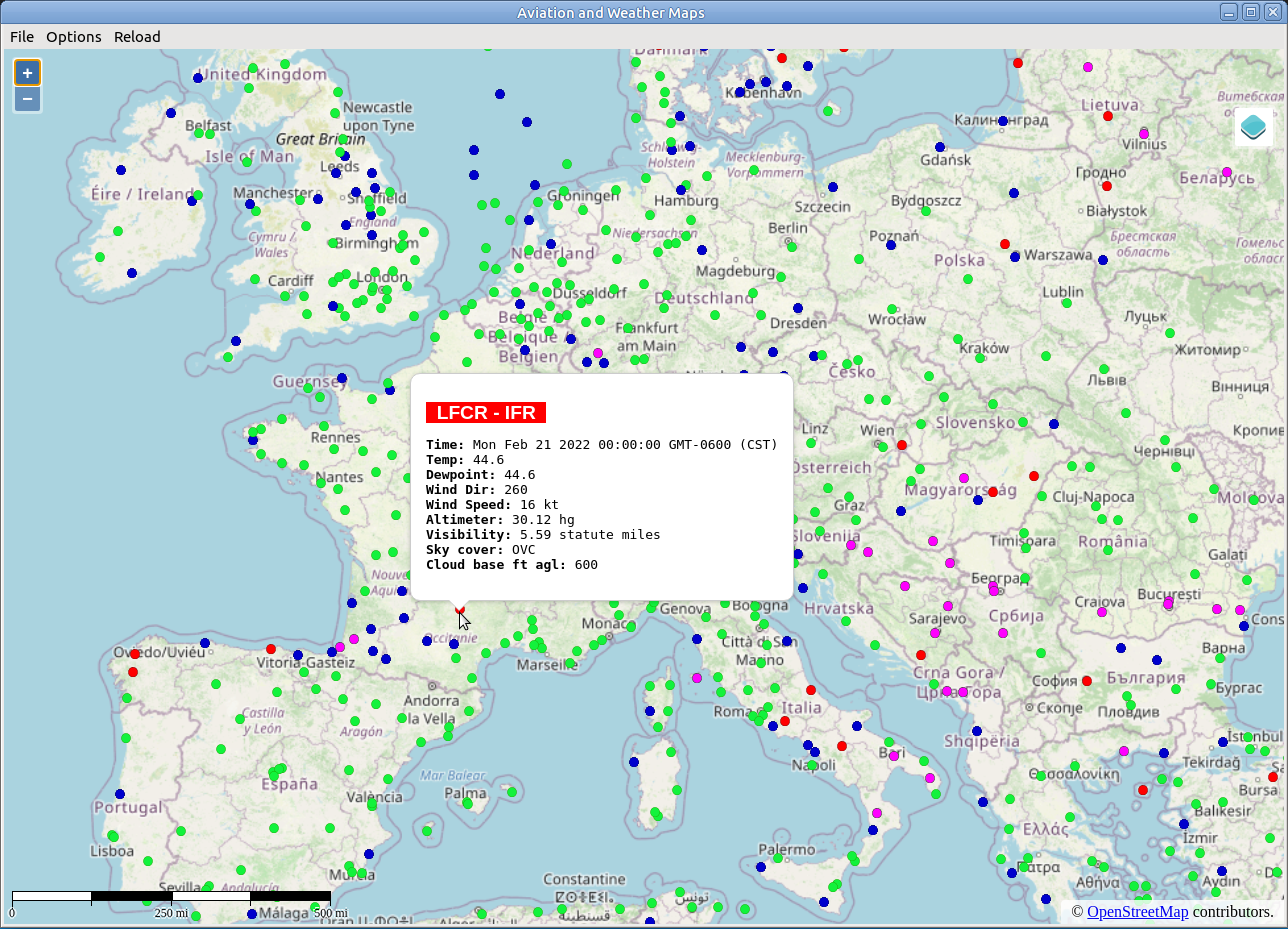
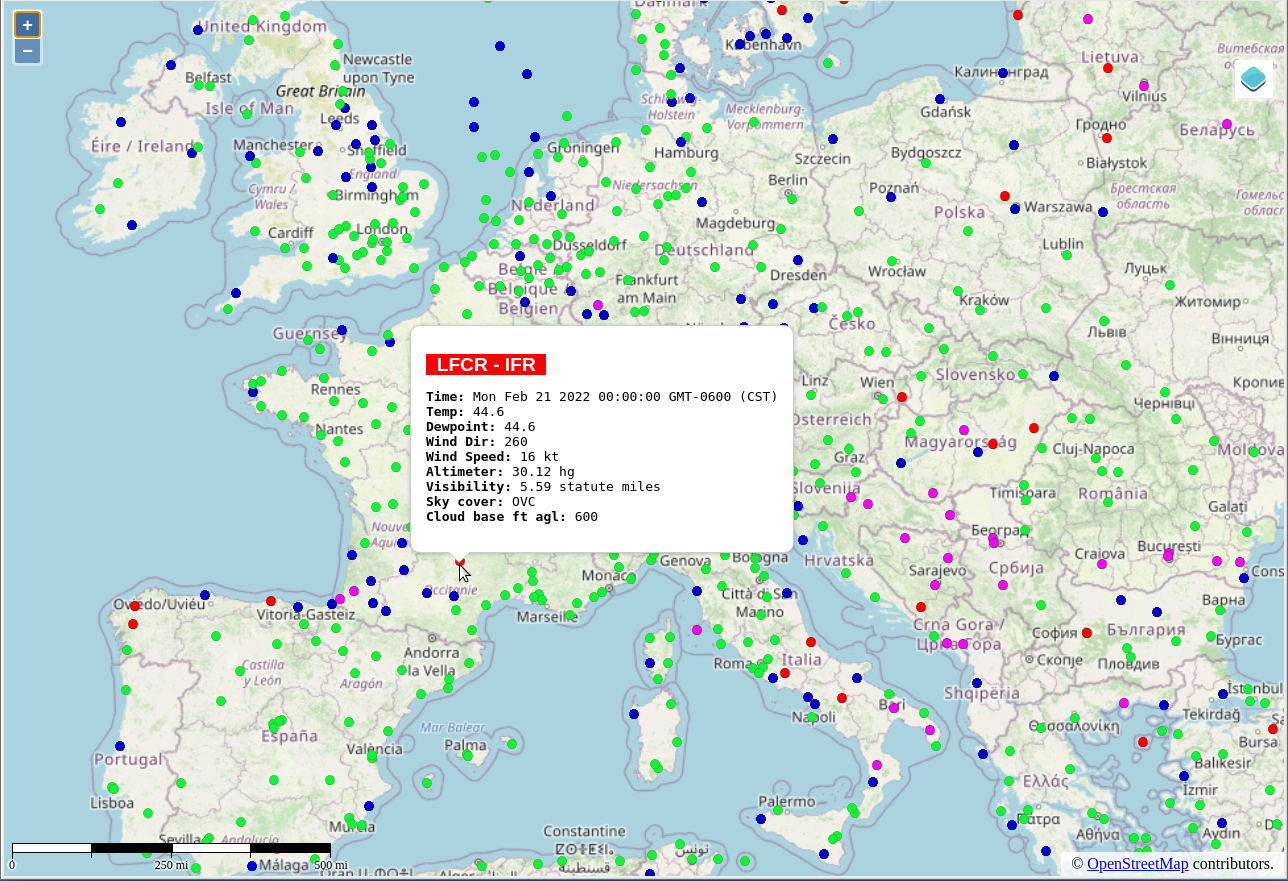
Added helipad vector layer

diff --git a/public/js/renderer.js b/public/js/renderer.js
@@ -67,12 +67,13 @@ let tiledebugLayer;
 let websock;
 let wsOpen = false;
 let MessageTypes = {};
-
+let DistanceUnits = {};
+let distanceunit = "";
 /**
  * Animation variables 
  */
 let animationId = null;
-let startDate = threeHoursAgo();
+let startDate = getTimeThreeHoursAgo();
 let frameRate = 1.0; // frames per second
 const animatecontrol = document.getElementById('wxbuttons');
 
@@ -222,6 +223,8 @@ $.get({
         try {
             settings = JSON.parse(data);
             MessageTypes = settings.messagetypes;
+            DistanceUnits = settings.distanceunits;
+            distanceunit = settings.distanceunit;
             currentZoom = settings.startupzoom;
         }
         catch(err) {
@@ -450,6 +453,21 @@ map.on('pointermove', (evt) => {
     map.forEachFeatureAtPixel(evt.pixel, (feature) => {
         if (feature) {
             hasfeature = true;
+        }
+    });
+    if (!hasfeature) {
+        popupcloser.onclick();
+    }
+});
+
+
+map.on('singleclick', (evt) => {
+    let hasfeature = false;
+    currentZoom = map.getView().getZoom();
+    resizeDots();
+    map.forEachFeatureAtPixel(evt.pixel, (feature) => {
+        if (feature) {
+            hasfeature = true;
             let datatype = feature.get("datatype");
             if (datatype === "metar") {
                 createMetarPopup(feature);
@@ -464,9 +482,6 @@ map.on('pointermove', (evt) => {
             popupoverlay.setPosition(coordinate);
         }
     });
-    if (!hasfeature) {
-        popupcloser.onclick();
-    }
 });
 
 function createMetarPopup(feature) {
@@ -476,7 +491,10 @@ function createMetarPopup(feature) {
     if (cat == undefined || cat == "undefined"){
         cat = "VFR";
     }
-    let time = getLocalTimeZone(thismetar.observation_time);
+    let time = thismetar.observation_time;
+    if (settings.uselocaltimeformetars) {
+        time = getLocalTimeZone(time);
+    }
     let temp = convertCtoF(thismetar.temp_c);
     let dewp = convertCtoF(thismetar.dewpoint_c);
     let windir = thismetar.wind_dir_degrees;
@@ -484,6 +502,15 @@ function createMetarPopup(feature) {
     let wingst = thismetar.wind_gust_kt + ""; 
     let altim = getAltimeterSetting(thismetar.altim_in_hg);
     let vis = thismetar.visibility_statute_mi;
+    let visunit = settings.visibilityunit;
+    switch (visunit) {
+        case "km":
+            vis = convertMilesToKilometers(vis);
+            break;
+        case "nm":
+            vis = convertMilesToNauticalMiles(vis);
+            break;
+    }
     let skyconditions = "";
     try {
         let sky = [];
@@ -531,14 +558,14 @@ function createMetarPopup(feature) {
         }
         let html = `<div id="#featurepopup"><pre><code><p>`
         html +=    `${css}&nbsp&nbsp${name}${ident} - ${cat}&nbsp&nbsp</label><p></p>`;
-        html +=   (time != "" && time != "undefined") ? `<b>Time:</b> ${time}<br/>` : "";
-        html +=   (temp != "" && temp != "undefined") ? `<b>Temp:</b> ${temp}<br/>` : "";
-        html +=   (dewp != "" && dewp != "undefined") ?`<b>Dewpoint:</b> ${dewp}<br/>` : "";
-        html += (windir != "" && windir != "undefined") ? `<b>Wind Dir:</b> ${windir}<br/>` : "";
-        html += (winspd != "" && winspd != "undefined") ? `<b>Wind Speed:</b> ${winspd} kt<br/>` : "";
-        html += (wingst != "" && wingst != "undefined") ? `<b>Wind Gust:</b> ${wingst} kt<br/>` : "";
-        html +=  (altim != "" && altim != "undefined") ? `<b>Altimeter:</b> ${altim} hg<br/>` : "";
-        html +=    (vis != "" && vis != "undefined") ? `<b>Visibility:</b> ${vis} statute miles<br/>` : "";
+        html +=   (time != "" && time != "undefined") ? `Time:&nbsp<b>${time}</b><br/>` : "";
+        html +=   (temp != "" && temp != "undefined") ? `Temp:&nbsp<b>${temp}</b><br/>` : "";
+        html +=   (dewp != "" && dewp != "undefined") ?`Dewpoint:&nbsp<b>${dewp}</b><br/>` : "";
+        html += (windir != "" && windir != "undefined") ? `Wind Dir:&nbsp<b>${windir}</b><br/>` : "";
+        html += (winspd != "" && winspd != "undefined") ? `Wind Speed:&nbsp<b>${winspd}&nbspkt</b><br/>` : "";
+        html += (wingst != "" && wingst != "undefined") ? `Wind Gust:&nbsp<b>${wingst}&nbspkt</b><br/>` : "";
+        html +=  (altim != "" && altim != "undefined") ? `Altimeter:&nbsp<b>${altim}&nbsphg</b><br/>` : "";
+        html +=    (vis != "" && vis != "undefined") ? `Visibility:&nbsp<b>${vis}</b><br/>` : "";
         html += (skyconditions != "" && skyconditions != "undefined") ? `${skyconditions}` : "";
         html += `</p></code></pre></div>`;
         popupcontent.innerHTML = html;  
@@ -553,7 +580,10 @@ function createTafPopup(feature) {
     if (cat == undefined || cat == "undefined"){
         cat = "VFR";
     }
-    let time = getLocalTimeZone(thistaf.observation_time);
+    let time = thistaf.observation_time;
+    if (settings.uselocaltimeformetars){
+        time = getLocalTimeZone(time);
+    }
     let temp = convertCtoF(thistaf.temp_c);
     let dewp = convertCtoF(thistaf.dewpoint_c);
     let windir = thistaf.wind_dir_degrees;
@@ -561,6 +591,15 @@ function createTafPopup(feature) {
     let wingst = thistaf.wind_gust_kt + ""; 
     let altim = getAltimeterSetting(thistaf.altim_in_hg);
     let vis = thistaf.visibility_statute_mi;
+    let visunit = settings.visibilityunit;
+    switch (visunit) {
+        case "km":
+            vis = convertMilesToKilometers(vis);
+            break;
+        case "nm":
+            vis = convertMilesToNauticalMiles(vis);
+            break;
+    }
     let skyconditions = "";
     try {
         let sky = [];
@@ -607,18 +646,18 @@ function createTafPopup(feature) {
             console.log("Airport name NOT FOUND!");
         }
         let html = `<div id="#featurepopup"><pre><code><p>`
-        html +=    `${css}&nbsp&nbsp${ident} - ${cat}&nbsp&nbsp</label><p></p>`;
-        html +=   (time != "" && time != "undefined") ? `<b>Time:</b> ${time}<br/>` : "";
-        html +=   (temp != "" && temp != "undefined") ? `<b>Temp:</b> ${temp}<br/>` : "";
-        html +=   (dewp != "" && dewp != "undefined") ?`<b>Dewpoint:</b> ${dewp}<br/>` : "";
-        html += (windir != "" && windir != "undefined") ? `<b>Wind Dir:</b> ${windir}<br/>` : "";
-        html += (winspd != "" && winspd != "undefined") ? `<b>Wind Speed:</b> ${winspd} kt<br/>` : "";
-        html += (wingst != "" && wingst != "undefined") ? `<b>Wind Gust:</b> ${wingst} kt<br/>` : "";
-        html +=  (altim != "" && altim != "undefined") ? `<b>Altimeter:</b> ${altim} hg<br/>` : "";
-        html +=    (vis != "" && vis != "undefined") ? `<b>Visibility:</b> ${vis} statute miles<br/>` : "";
+        html +=    `${css}&nbsp&nbsp${name}${ident} - ${cat}&nbsp&nbsp</label><p></p>`;
+        html +=   (time != "" && time != "undefined") ? `Time:&nbsp<b>${time}</b><br/>` : "";
+        html +=   (temp != "" && temp != "undefined") ? `Temp:&nbsp<b>${temp}</b><br/>` : "";
+        html +=   (dewp != "" && dewp != "undefined") ?`Dewpoint:&nbsp<b>${dewp}</b><br/>` : "";
+        html += (windir != "" && windir != "undefined") ? `Wind Dir:&nbsp<b>${windir}</b><br/>` : "";
+        html += (winspd != "" && winspd != "undefined") ? `Wind Speed:&nbsp<b>${winspd}&nbspkt</b><br/>` : "";
+        html += (wingst != "" && wingst != "undefined") ? `Wind Gust:&nbsp<b>${wingst}&nbspkt</b><br/>` : "";
+        html +=  (altim != "" && altim != "undefined") ? `Altimeter:&nbsp<b>${altim}&nbsphg</b><br/>` : "";
+        html +=    (vis != "" && vis != "undefined") ? `Visibility:&nbsp<b>${vis}</b><br/>` : "";
         html += (skyconditions != "" && skyconditions != "undefined") ? `${skyconditions}` : "";
         html += `</p></code></pre></div>`;
-        popupcontent.innerHTML = html;    
+        popupcontent.innerHTML = html;      
     }
 }
 
@@ -740,6 +779,7 @@ animatedWxSource = new ol.source.TileWMS({
     params: {'LAYERS': 'nexrad-n0r-wmst'},
 });
 
+
 /**
  * jQuery $get all layer tile data
  */
@@ -750,9 +790,11 @@ $.get(`${URL_GET_TILESETS}`, (data) => {
         title: "VFR Sectional Chart",
         type: "overlay", 
         source: new ol.source.XYZ({
+            attributions: ["© <a href='https://www.openflightmaps.org'>openflightmaps.org</a>"],
             url: URL_GET_VFRSEC_TILE,
             maxZoom: 11,
-            minZoom: 5
+            minZoom: 5,
+            attributionsCollapsible: false
         }),
         visible: false,
         extent: extent,
@@ -953,7 +995,7 @@ if (settings.getgpsfromstratux) {
  * For weather animation, gets the time 3 hours ago
  * @returns Date
  */
-function threeHoursAgo() {
+function getTimeThreeHoursAgo() {
     return new Date(Math.round(Date.now() / 3600000) * 3600000 - 3600000 * 3);
 }
 
@@ -971,7 +1013,7 @@ function updateInfo() {
 function setTime() {
     startDate.setMinutes(startDate.getMinutes() + 15);
     if (startDate > Date.now()) {
-      startDate = threeHoursAgo();
+      startDate = getTimeThreeHoursAgo();
     }
     animatedWxSource.updateParams({'TIME': startDate.toISOString()});
     updateInfo();
@@ -1014,7 +1056,7 @@ stopButton.addEventListener('click', stopWeatherRadar, false);
 updateInfo();
 
 /**
- * 
+ * Convert Celsius to Farenheit
  * @param {*} temp: Temperature in Centigrade 
  * @returns Farenheit temperature fixed to 2 decimal places
  */
@@ -1022,6 +1064,27 @@ const convertCtoF = ((temp) => {
     let num = (temp * 9/5 + 32);
     return num.toFixed(1);
 });
+
+/**
+ * Convert statute miles to desired unit 
+ * @param {*} miles: statute miles
+ * @returns statute miles, kilometers or nautical miles   
+ */
+ function getDistanceUnits(miles) {
+    let num = miles;
+    let label = "mi";
+    switch (distanceunit) {
+        case DistanceUnits.kilometers: 
+            num = miles * 1.609344;
+            label = "km"
+            break;
+        case DistanceUnits.nauticalmiles:
+            num = miles * 0.8689762419;
+            label = "nm";
+            break;
+    }
+    return `${num.toFixed(1)} ${label}`;
+}
 
 /**
  * Builds a HTML Table out of a JSON obje

diff --git a/server.js b/server.js
@@ -70,7 +70,10 @@ function startWebsocketServer() {
                 console.log("connection closed");
             });
             connection.on('message', data => {
-                console.log(data);
+                let message = JSON.parse(data.utf8Data);
+                if (message.type === MessageTypes.keepalive.type) {
+                    console.log(message.payload);
+                }
             });
         });
     }

diff --git a/main.js b/main.js
@@ -1,7 +1,7 @@
 const { app, BrowserWindow, ipcMain, Menu } = require('electron');
 const fs = require('fs');
 
-require('./appserver.js');
+require('./server.js');
 
 let appWindow = null;
 let settings = loadSettings();
